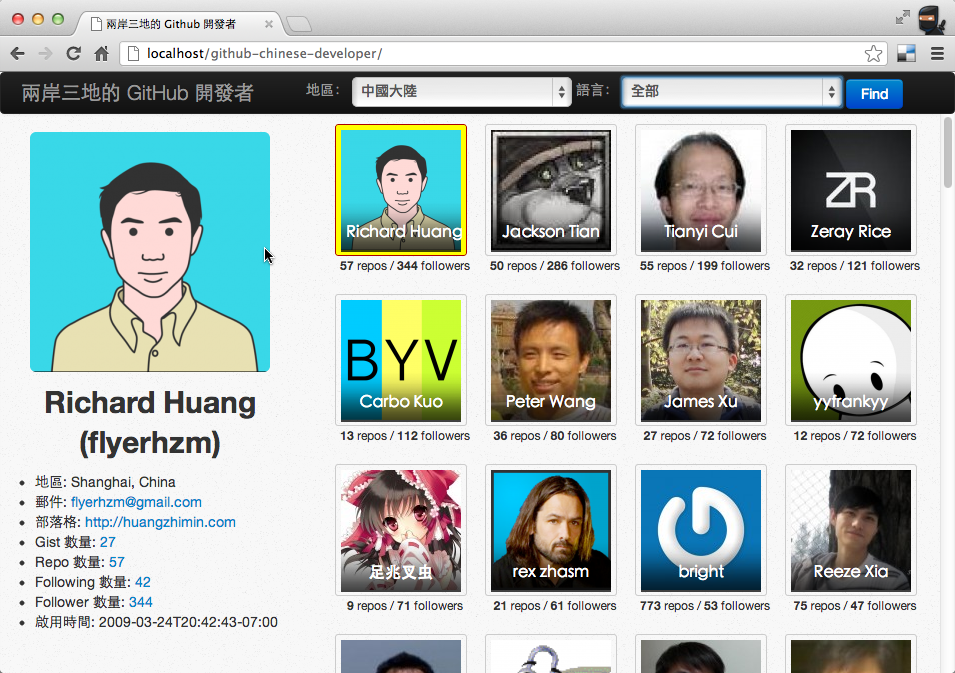
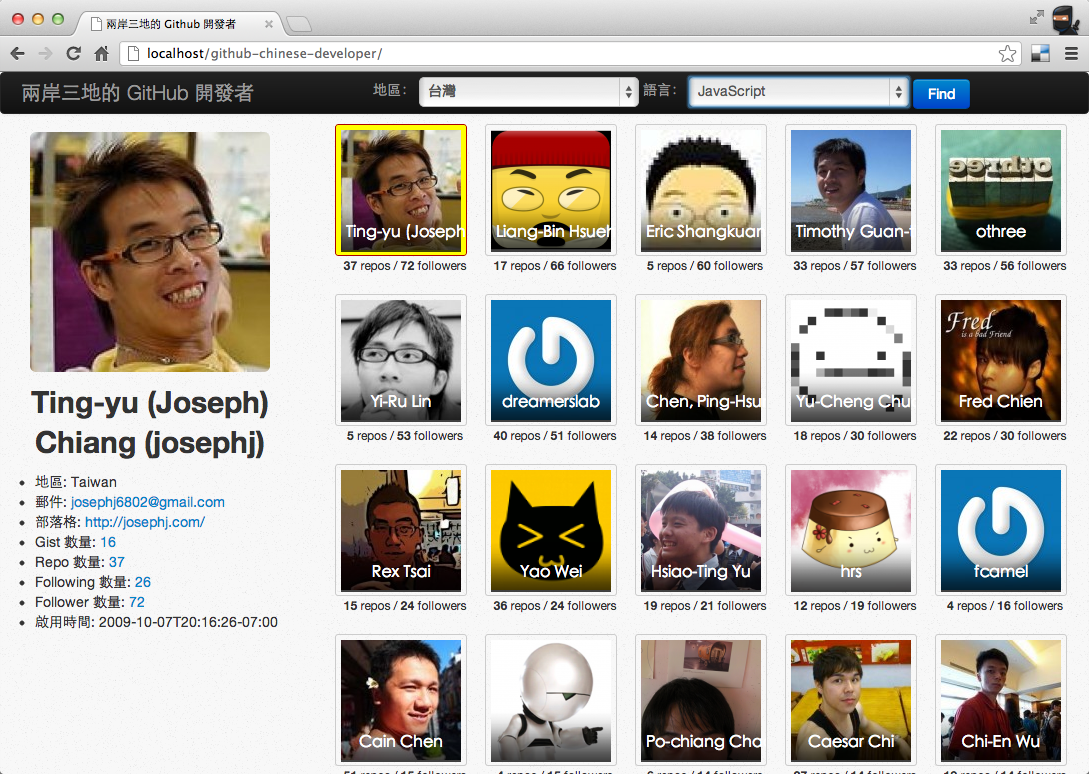
Add introduction and replace website.png

diff --git a/README.md b/README.md
@@ -1,5 +1,10 @@
 # 前端模块加载策略
-## 前端模块的理想实践
+
+随著前端开发技术的蓬勃发展，许多需求大量移往前端来处理、甚至将网页做成类似 Gmail、Google Calendar 的交互型的应用程式。这个趋势使得 CSS 与 JavaScript 代码量大量增加，也得加载许多现成的「库」来满足复杂的需求。本文将结合工具及范例、介绍加载 JavaScript/CSS 的数种方法与模式，进而引出载入前端模块的理想方式。
+
+---
+
+## 模块化开发的兴起与疑问
 
 过去开发 JavaScript 并没有一个好的模块架构去管理依赖关系与加载机制，当项目变复杂，往往难以维护。直到 nodeJS 采用 CommonJS 1.0 的模块规范造成流行后，大家开始热烈讨论浏览器端的模块架构的规范与实作，现在 AMD 规范与 RequireJS 实作可说是整个前端业界的当红炸子鸡，提供前端程序员有个标准开发 JavaScript 模块并清楚定义依赖关系及轻松加载。
 
@@ -13,13 +18,13 @@
 
 前面提到雅虎的「页面模块开发模式」，则是把页面依结构切分成一个个小的 &lt;div/&gt; 模块，原则上每一个页面模块都各有自己的 HTML (例如 PHP 是用 include_once 来载入)、CSS 与 JavaScript 档案。好处是让每个开发人员都能专注于单一模块的开发上、而非去烦恼整个页面的架构与布局。重复利用在这样的开发模式下并不是最重要的事情。
 
-![image](http://farm9.staticflickr.com/8033/7980180441_741f9f4b03_b.jpg)
+![image](http://farm9.staticflickr.com/8297/7987296815_6bc0450b7a_b.jpg)
 * 图 1 - 范例网页：两岸三地的开发者
 
 ![image](http://farm9.staticflickr.com/8030/7980180886_c650d9f767_z.jpg)
 * 图 2 - 两岸三地的开发者网页的页面模块结构图
 
-以上的頁面共有三个页面模块：上面的「条件筛选模块」(\_filter)、左边的「资讯模块」(\_info)、右侧的「列表模块」(\_list)，都各自有自己的 HTML、CSS、与 JavaScript。
+在两岸三地的开发者的网页（图 1）、其结构（图 2）共有三个页面模块：上面的「条件筛选模块」(\_filter)、左边的「资讯模块」(\_info)、右侧的「列表模块」(\_list)，都各自有自己的 HTML、CSS、与 JavaScript。
 
 这样的模式是目前业界的开发主流，后面将以这个开发模式为思路基础。
 
@@ -99,7 +104,7 @@ http://localhost/mini?module=page_a&type=js
 ![image](http://farm9.staticflickr.com/8034/7980180579_0965366aaa_z.jpg)
 * 图 3 - 页层级设定的架构示意图
 
-虽然每位程序员专注于开发自己的模块、但都得共同修改同一个设定档，此设定档记载了每页要载入的模块有哪些。是一个很直觉的作法。
+图 3 中，虽然每位程序员专注于开发自己的模块、但都得共同修改同一个设定档，此设定档记载了每页要载入的模块有哪些。是一个很直觉的作法。
 
 ### 页层级设定的缺点
 
@@ -118,6 +123,8 @@ http://localhost/mini?module=page_a&type=js
 ![image](module-level.svg)
 ![img](http://farm9.staticflickr.com/8034/7980180579_0965366aaa_z.jpg)
 * 图 4 - 模块层级设定的架构示意图
+
+在模块层级的架构中（图四），大致需要有几个必须的模式：
 
 1. 程序员在此模式开始要定义自身页面模块的依赖关系，下图的三个程序员各自开发不同的页面模块，而依赖的模块重复或不重复的都有。
 2. 页面的 Controller 会指定要载入的页面模块有哪些，但不需提供依赖的那些模块，会由加载的 Loader 自动计算，得到所有应该要载入的模块。
@@ -222,7 +229,7 @@ $loader->set("_filter", "_list", "_info");
 echo $loader->load();
 ```
 
-即可输出对应的 link、script 标签与模块依赖关系的设定。
+即可输出对应的 link、script 标签与模块依赖关系的设定（如图 5）。
 
 ![image](http://farm9.staticflickr.com/8304/7980180773_ca60fe2667_b.jpg)
 * 图 5 - 使用 StaticLoader Class 输出复杂的 &lt;link/&gt; 与 &lt;script/&gt; 标签与 YUI 模块的设定。
